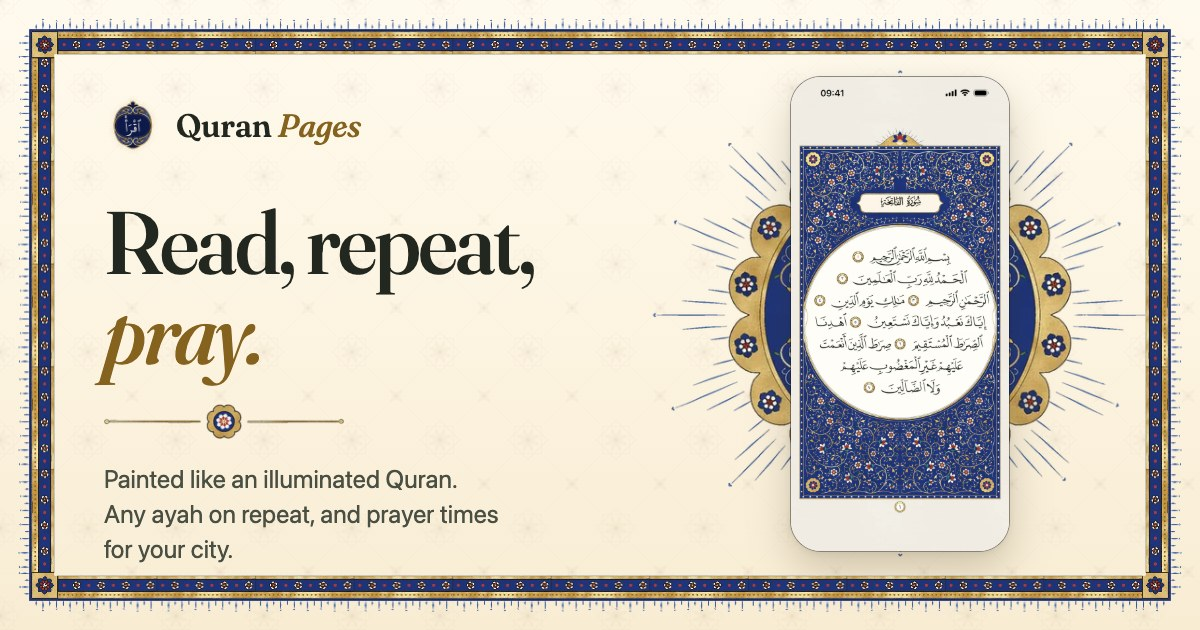
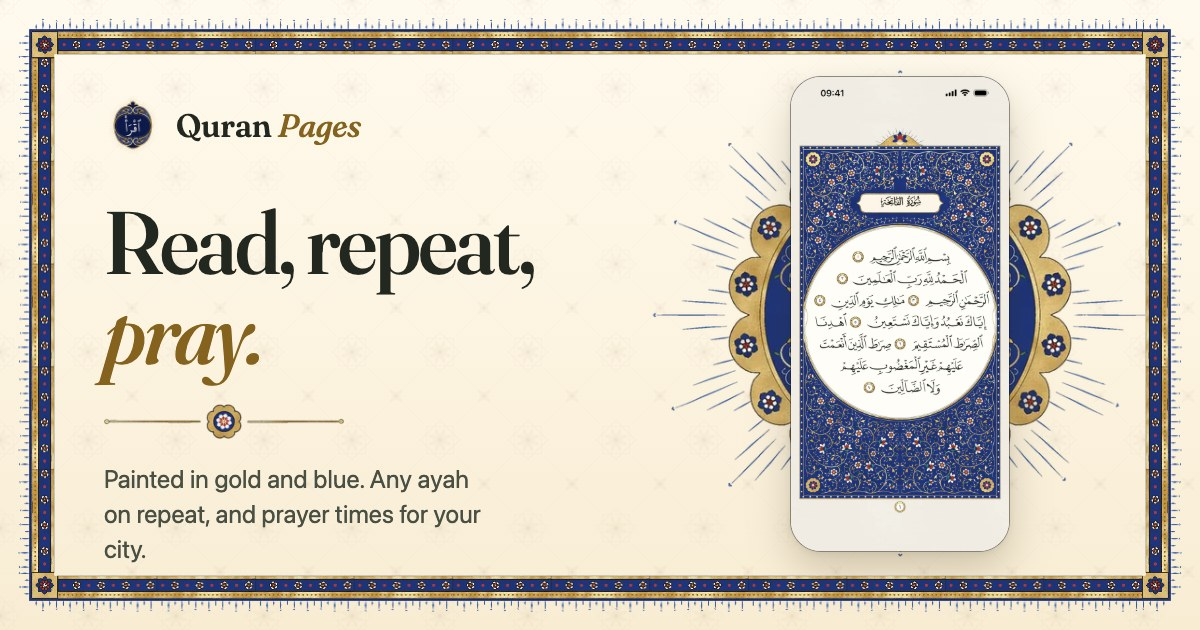
Say "painted in gold and blue", not "illuminated"
The owner found nobody knows what an illuminated Quran is. The hero, the
closing panel, the descriptions for search and sharing, Support's What is
new, and the share card now say the app is painted in gold and blue; the
New in 4.0 heading is "A painting for every surah". tools/check_site.py now
fails on the word, and README says why.

Changed region(s): [[0.0925, 0.7238, 0.4317, 0.9048]]

diff --git a/index.html b/index.html
@@ -5,12 +5,12 @@
 <meta name="viewport" content="width=device-width, initial-scale=1, viewport-fit=cover">
 <title>Quran Pages · Quran app to read, memorize and pray</title>
 <link rel="canonical" href="https://hifzquran.org/">
-<meta name="description" content="The Quran on pages that match the printed book, painted like an illuminated Quran. Any ayah on repeat, tafsir, and prayer times for your city. No account.">
+<meta name="description" content="The Quran on pages that match the printed book, painted in gold and blue. Any ayah on repeat, tafsir, and prayer times for your city. No account.">
 <link rel="icon" type="image/png" sizes="32x32" href="assets/img/favicon-32.png">
 <link rel="icon" type="image/png" sizes="64x64" href="assets/img/favicon-64.png">
 <link rel="apple-touch-icon" href="assets/img/apple-touch-icon.png">
 <meta property="og:title" content="Quran Pages · Quran app to read, memorize and pray">
-<meta property="og:description" content="The Quran on pages that match the printed book, painted like an illuminated Quran. Any ayah on repeat, tafsir, and prayer times for your city.">
+<meta property="og:description" content="The Quran on pages that match the printed book, painted in gold and blue. Any ayah on repeat, tafsir, and prayer times for your city.">
 <meta property="og:image" content="https://hifzquran.org/assets/img/og.jpg">
 <meta property="og:image:width" content="1200">
 <meta property="og:image:height" content="630">
@@ -18,7 +18,7 @@
 <meta property="og:url" content="https://hifzquran.org">
 <meta name="twitter:card" content="summary_large_image">
 <meta name="twitter:title" content="Quran Pages · Quran app to read, memorize and pray">
-<meta name="twitter:description" content="The Quran on pages that match the printed book, painted like an illuminated Quran.">
+<meta name="twitter:description" content="The Quran on pages that match the printed book, painted in gold and blue.">
 <meta name="twitter:image" content="https://hifzquran.org/assets/img/og.jpg">
 <meta name="theme-color" content="#1F3479">
 <!-- iPhone Safari shows Apple's own bar with Get or Open at the top -->
@@ -35,7 +35,7 @@
   "name": "Quran Pages",
   "alternateName": "Hifz Quran",
   "url": "https://hifzquran.org/",
-  "description": "The Quran on pages that match the printed book, painted like an illuminated Quran: any ayah on repeat until you memorize it, tafsir for every ayah, and prayer times for your city.",
+  "description": "The Quran on pages that match the printed book, painted in gold and blue: any ayah on repeat until you memorize it, tafsir for every ayah, and prayer times for your city.",
   "applicationCategory": "ReferenceApplication",
   "operatingSystem": "iOS 17 or later, Android 8.0 or later",
   "inLanguage": "en",
@@ -92,7 +92,7 @@
         <h1>Read, repeat,<br><em>pray.</em></h1>
         <img class="rule" src="assets/art/rule.webp" width="532" height="84" alt="" aria-hidden="true">
         <p class="lead">
-          The real Madina mushaf, painted like an illuminated Quran. Any ayah on repeat,
+          The real Madina mushaf, painted in gold and blue around the words. Any ayah on repeat,
           and prayer times for your city.
         </p>
         <div class="cta">
@@ -126,7 +126,7 @@
           <img src="assets/art/crown.webp" width="384" height="162" alt="" loading="lazy" decoding="async">
         </div>
         <p class="eyebrow">New in 4.0</p>
-        <h2>Painted like an <em>illuminated Quran.</em></h2>
+        <h2>A painting for <em>every surah.</em></h2>
         <p class="lead">Every surah has its own painting, and the gold catches the light as you move
         your phone. The words of the Quran are never changed. The painting is around them, as in a
         printed mushaf.</p>
@@ -460,7 +460,7 @@
           <img class="get-icon" src="assets/img/apple-touch-icon.png" width="96" height="96" alt="" aria-hidden="true" loading="lazy">
         </picture>
         <h2>Get <em>Quran Pages.</em></h2>
-        <p class="lead">For iPhone, iPad and Android. Read, repeat and pray, in an app painted like an illuminated Quran.</p>
+        <p class="lead">For iPhone, iPad and Android. Read, repeat and pray, in an app painted in gold and blue.</p>
         <div class="cta">
           <a class="badge ios-only" href="https://apps.apple.com/us/app/quran-pages-read-repeat/id6792413377">
             <img class="day-only" src="assets/img/app-store-black.svg" width="162" height="54" alt="Download on the App Store">

diff --git a/support.html b/support.html
@@ -106,7 +106,7 @@
   114, ahead of time: open <em>Settings</em>, then <em>Saved recitations</em>.</p>
 
   <h3>What is new in 4.0?</h3>
-  <p>The whole app is painted like an illuminated Quran. Every surah has its own painting, and the gold catches the
+  <p>The whole app is painted in gold and blue, like the old handwritten Qurans. Every surah has its own painting, and the gold catches the
   light as you move your phone. Al-Fatihah and Al-Baqarah open with painted pages. Every page has gold verse marks,
   painted surah headings, and a gold medallion in the margin where a juz begins. The Indopak pages are painted in
   the style of the old Qurans of India. The qibla is an astrolabe, and there is a new icon.</p>

diff --git a/og-render.html b/og-render.html
@@ -45,7 +45,7 @@
     <div class="wm"><span class="m"></span><span class="t">Quran <i>Pages</i></span></div>
     <h1>Read, repeat, <em>pray.</em></h1>
     <img class="rule" src="assets/art/rule.webp" alt="">
-    <p>Painted like an illuminated Quran. Any ayah on repeat, and prayer times for your city.</p>
+    <p>Painted in gold and blue. Any ayah on repeat, and prayer times for your city.</p>
   </div>
 </body>
 </html>

diff --git a/tools/check_site.py b/tools/check_site.py
@@ -7,7 +7,8 @@
    about price (a warranty "free of errors", the indemnity's "legal costs",
    and the refund line Apple asks every developer's terms to carry); each is
    listed below, and nothing else passes.
-2. No em dashes.
+2. No em dashes, and not the word "illuminated" (say "painted in gold and
+   blue": the owner found nobody knows the word).
 3. The Quran shown on the site is the app's own text: the footer's Al-Qamar
    54:17, letter for letter against ayahs.json, and its English against
    Saheeh International (tr_en-saheeh.json), both in the app.
@@ -55,6 +56,8 @@ for path in pages:
     raw = open(path, encoding="utf-8").read()
     if "—" in raw:
         fail(f"{name}: an em dash")
+    if name.endswith(".html") and re.search(r"illuminat", visible(raw), flags=re.I):
+        fail(f"{name}: the word illuminated (say painted in gold and blue)")
     if name in ("og-render.html",):
         continue
     text = visible(raw) if name.endswith(".html") else raw

diff --git a/README.md b/README.md
@@ -1,7 +1,7 @@
 # Quran Pages, the website
 
-> **Branch `release-4.0`: the site for Quran Pages 4.0, the illuminated
-> release.** Ready to go live the day Apple approves 4.0; the steps are under
+> **Branch `release-4.0`: the site for Quran Pages 4.0, the app painted in
+> gold and blue.** Ready to go live the day Apple approves 4.0; the steps are under
 > "Going live" at the end. `main` is still the 3.2 site, live since 26 October
 > 2026.
 
@@ -9,7 +9,7 @@ The marketing and legal site for **Quran Pages** (iPhone, iPhone Duo, iPad and
 Android), at **hifzquran.org**. Plain static HTML, CSS and one small script.
 No build step, no framework, no tracking, no external requests.
 
-The site follows the app, which in 4.0 is painted like an illuminated Quran.
+The site follows the app, which in 4.0 is painted in gold and blue.
 By day the ground is the app's bright cream paper, lit from the top, with a
 touch of burnished grain and the rosette lattice pressed in tone on tone; in
 the dark it is the app's lapis night with the same rosettes in cream. The bar
@@ -27,7 +27,8 @@ paint shader (`Illumination.metal`, `IllumLight.h`) ported to WebGL in
 WebGL, the still painting shows.
 
 The words follow `Design/WORDS.md`: plain enough for a grandmother who reads
-English as her second language. None of the words the store rules ban
+English as her second language. Say "painted in gold and blue", never
+"illuminated": the owner found nobody knows the word (27 October 2026). None of the words the store rules ban
 (`ASO/LISTING_RULES.md`: nothing about what the app asks you to pay, and
 nothing that ranks it above others) and no em dashes; `tools/check_site.py`
 checks both.
